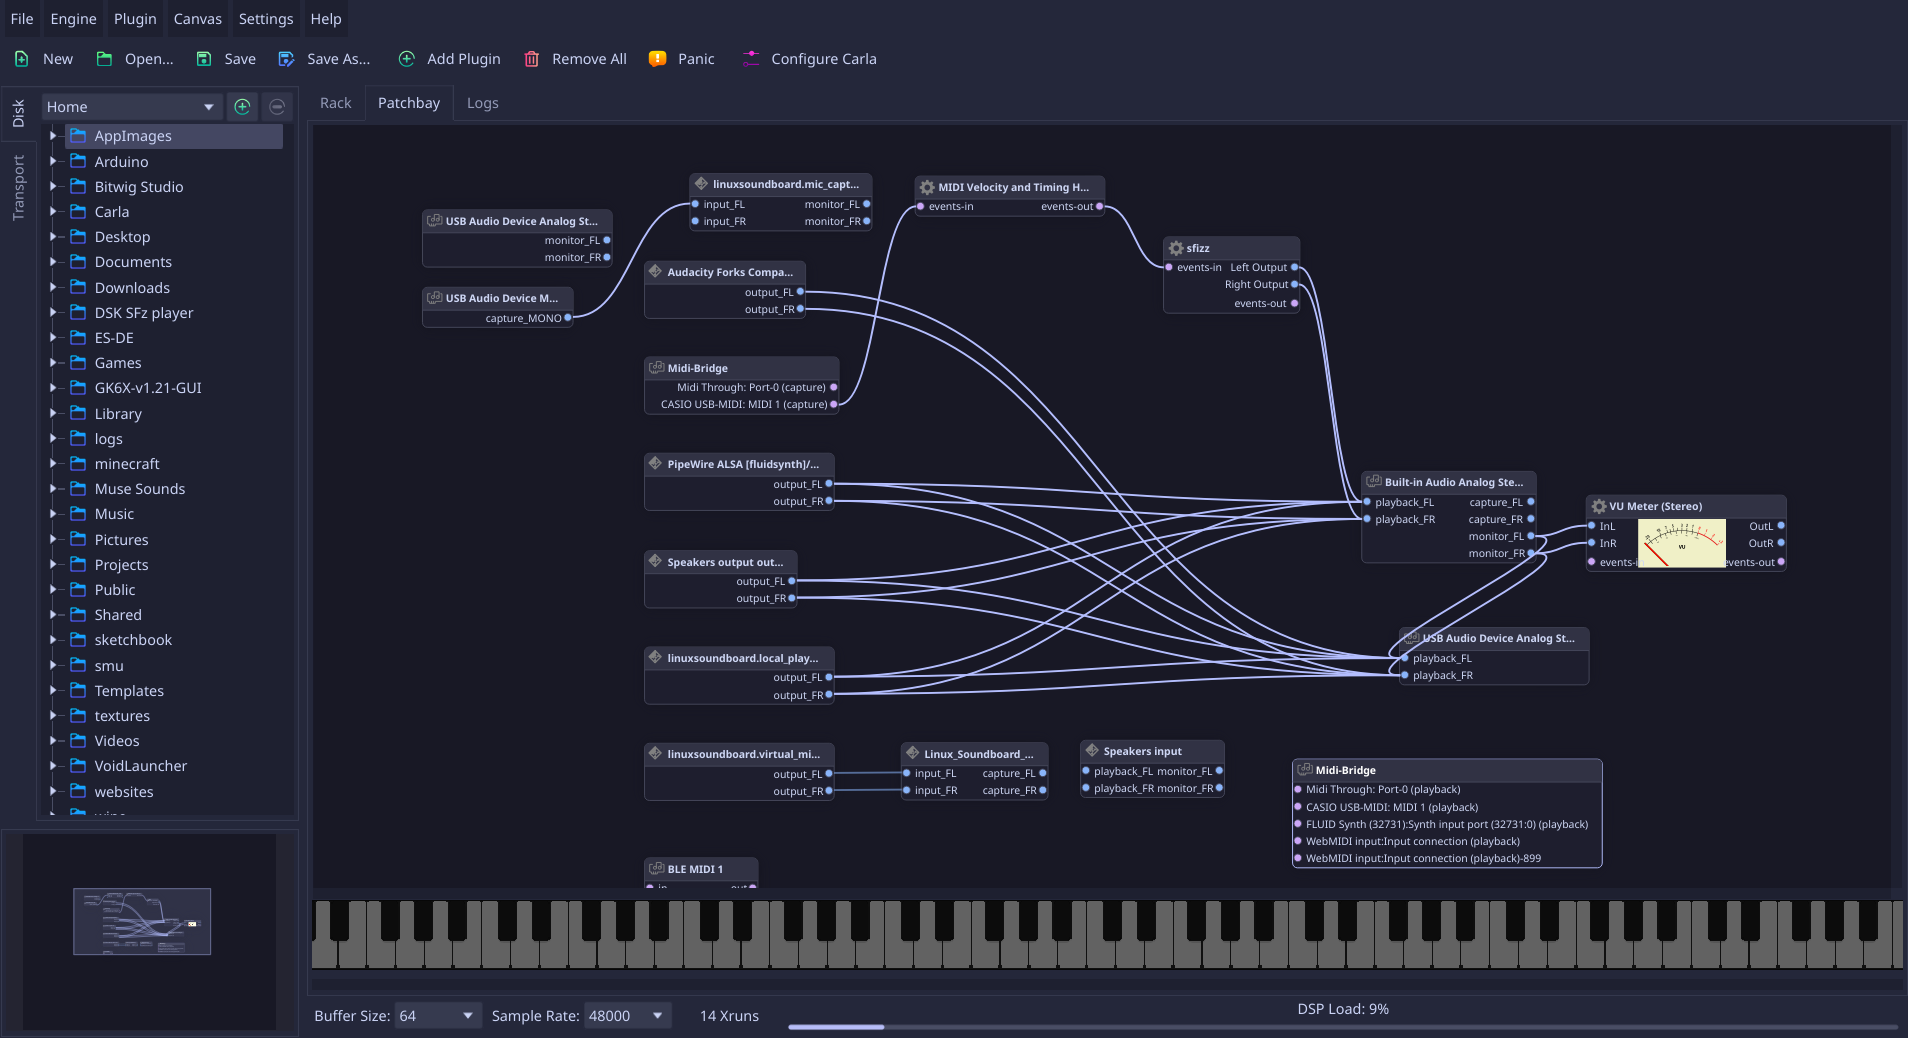
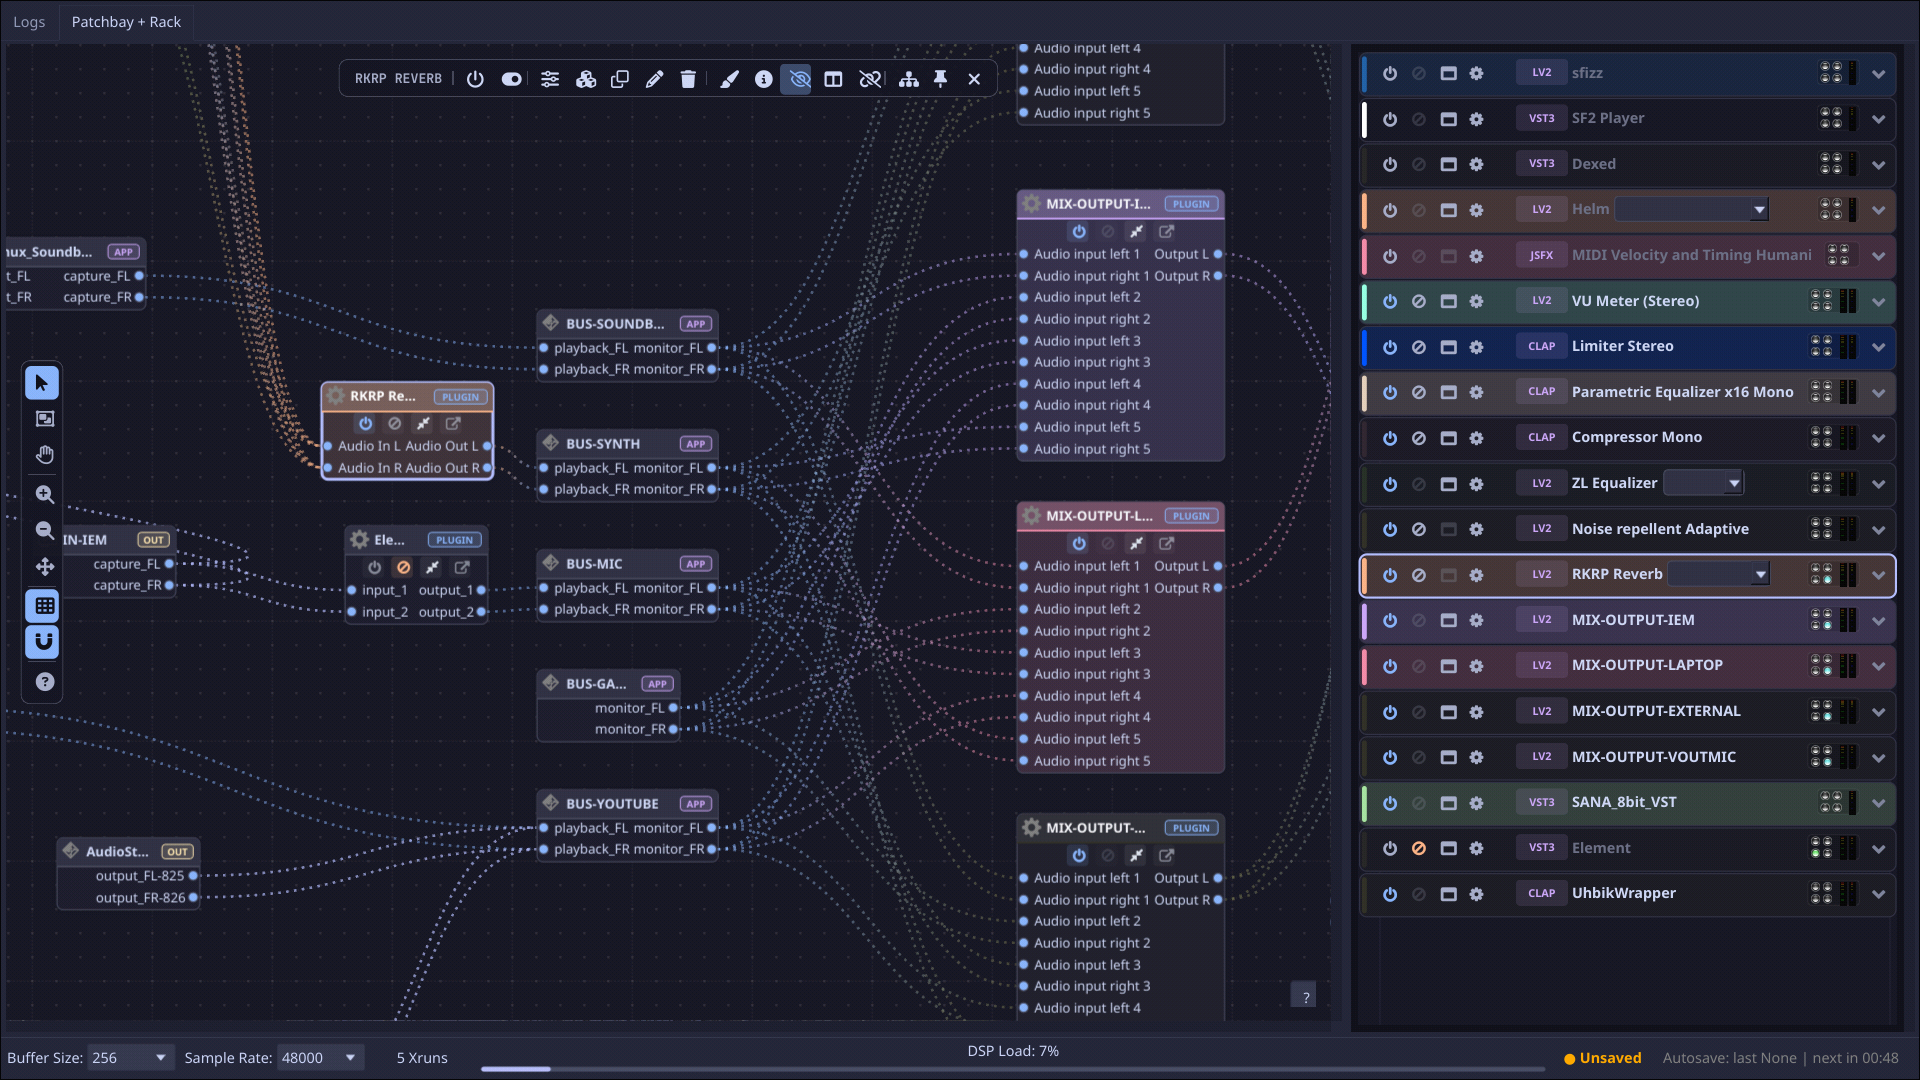
updated screnshot and readme

diff --git a/README.md b/README.md
@@ -56,6 +56,16 @@
   * Real-time interception and formatting of low-level C++ backend `stderr` log streams.
   * Interactive UI log filter checklist and CLI filter flags (`--log-whitelist`, `--log-blacklist`).
 
+### ⚙ Live Settings & UI Customization
+* **Instant Reactive Adjustments (No Restarts Required)**:
+  * Real-time sliders for rack slot vertical margin/spacing (0–16 px) and slot internal padding (2–16 px).
+  * Dynamic slot minimum width floor adjustments (180–450 px).
+  * Instant toggle for bottom status bar visibility.
+* **Modernized Settings Dialog**:
+  * Clean, borderless sidebar navigation with refined sans-serif typography and 32px compact tab pills.
+  * Removal of legacy low-resolution bitmap icons across all dialog headers and sidebar tabs.
+  * Sleek Catppuccin Mochaccino dialog aesthetics with subtle surface cards and rounded interactive controls.
+
 ---
 
 ## 🗺 Roadmap & In Progress
@@ -65,7 +75,7 @@ Track full development details and priorities in [TODO.md](TODO.md):
 - [ ] Mini DSP load history graph with side labels and hover tooltips.
 - [ ] In-project session notes with rich Qt Markdown (`QTextDocument`) preview.
 - [ ] Infinite canvas with migration recentering for legacy projects.
-- [ ] Settings dialog redesign featuring system icon integration and cohesive typography.
+- [x] Settings dialog redesign featuring live reactive tweakables and cohesive typography.
 - [ ] Standardized `argparse` CLI integration with `rich` help output.
 
 ---

diff --git a/TODO.md b/TODO.md
@@ -45,8 +45,8 @@
 ---
 
 ## ⚙ Settings & System UI
-- [ ] `[Diff: 1]` feat: Settings dialog sidebar enhancement — use a more readable, cohesive font
-- [ ] `[Diff: 2]` feat: Settings dialog polish & cleanup — reorganize sections, improve layout, use system icons instead of custom/outdated ones, and remove obsolete options deprecated by recent updates
+- [x] `[Diff: 1]` feat: Settings dialog sidebar enhancement — use a more readable, cohesive font
+- [x] `[Diff: 2]` feat: Settings dialog polish & cleanup — reorganize sections, improve layout, use modern compact pills instead of outdated bitmap icons, and add live reactive tweakables
 - [ ] `[Diff: 1]` feat: Minimize to system tray
 
 ---
